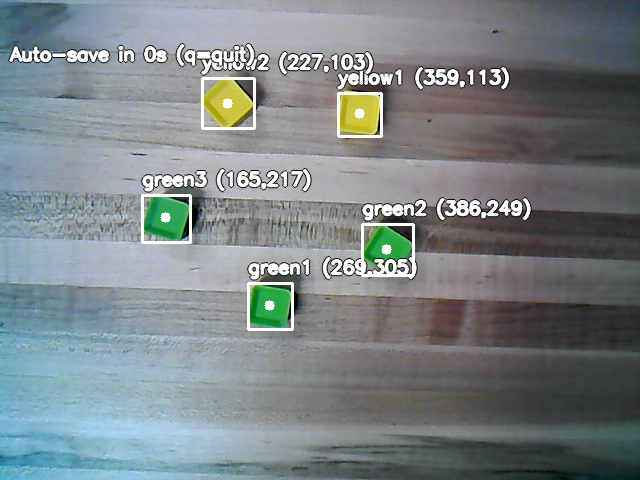
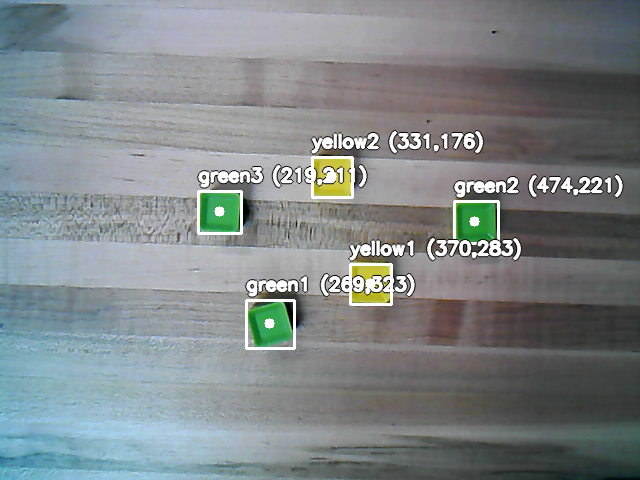
latest changes

diff --git a/Robot_Tools/Camera_Capture_Tools.py b/Robot_Tools/Camera_Capture_Tools.py
@@ -75,18 +75,132 @@ def detect_and_annotate_blocks(frame, area_threshold=500):
 # ---------------------------------------------------------
 # MAIN TOOL FUNCTION
 # ---------------------------------------------------------
+# def capture_scene_with_detection(
+#     cam_index=camera_index,
+#     width: int = 640,
+#     height: int = 480,
+#     save_dir: str = "captures",
+#     capture_interval_sec=capture_wait_time,
+# ):
+#     """
+#     Open the camera, show live view, detect colored blocks, annotate them,
+#     show a countdown from capture_interval_sec to 0, auto-save one annotated
+#     frame + JSON when countdown reaches 0, then keep showing the labeled feed
+#     until the user presses 'q' to quit.
+
+#     Returns a JSON-serializable dict with paths and detected blocks.
+#     """
+#     try:
+#         os.makedirs(save_dir, exist_ok=True)
+
+#         cap = cv2.VideoCapture(cam_index, cv2.CAP_ANY)
+#         if not cap.isOpened():
+#             return {
+#                 "error": f"Could not open camera index {cam_index}"
+#             }
+
+#         cap.set(cv2.CAP_PROP_FRAME_WIDTH, width)
+#         cap.set(cv2.CAP_PROP_FRAME_HEIGHT, height)
+#         cap.set(cv2.CAP_PROP_BUFFERSIZE, 1)
+
+#         window_name = "Camera (q=quit)"
+#         cv2.namedWindow(window_name, cv2.WINDOW_NORMAL)
+#         cv2.resizeWindow(window_name, width, height)
+
+#         # start time for countdown
+#         start_time = time.time()
+#         has_saved_once = False
+
+#         img_path = None
+#         json_path = None
+#         last_detected_blocks_data = []
+
+#         while True:
+#             ok, frame = cap.read()
+#             if not ok:
+#                 ok, frame = cap.read()
+#                 if not ok:
+#                     print("Frame grab failed.")
+#                     break
+
+#             detected_blocks = detect_and_annotate_blocks(frame)
+
+#             # --- COUNTDOWN / STATUS TEXT ---
+#             if has_saved_once:
+#                 # After capture: no timer, just info text
+#                 put_text(frame, "Capture done — labels only (q=quit)", (10, 60))
+#             else:
+#                 elapsed = time.time() - start_time
+#                 remaining = max(0, int(capture_interval_sec - elapsed))
+#                 put_text(
+#                     frame,
+#                     f"Auto-save in {remaining}s (q=quit)",
+#                     (10, 60),
+#                 )
+
+#             cv2.imshow(window_name, frame)
+#             key = cv2.waitKey(1) & 0xFF
+
+#             if key == ord('q'):
+#                 break
+
+#             # --- AUTO-SAVE ONCE WHEN TIMER EXPIRES ---
+#             if (not has_saved_once) and (time.time() - start_time >= capture_interval_sec):
+#                 has_saved_once = True
+
+#                 img_path = os.path.join(save_dir, "capture_scene.png")
+#                 json_path = os.path.join(save_dir, "capture_scene.json")
+
+#                 cv2.imwrite(img_path, frame)
+#                 print(f"Saved image: {img_path}")
+
+#                 data = [
+#                     {"label": label, "x": cx, "y": cy}
+#                     for label, (cx, cy) in detected_blocks
+#                 ]
+#                 last_detected_blocks_data = data
+
+#                 with open(json_path, "w") as f:
+#                     json.dump(data, f, indent=2)
+
+#                 print(f"Saved JSON: {json_path}")
+
+#         cap.release()
+#         cv2.destroyAllWindows()
+
+#         # Return info to the LLM/tool caller
+#         if img_path is None or json_path is None:
+#             return {
+#                 "message": "Camera closed before auto-save completed.",
+#                 "image_path": img_path,
+#                 "json_path": json_path,
+#                 "detected_blocks": last_detected_blocks_data,
+#             }
+
+#         return {
+#             "message": "Capture completed.",
+#             "image_path": img_path,
+#             "json_path": json_path,
+#             "detected_blocks": last_detected_blocks_data,
+#         }
+
+#     except Exception as e:
+#         # Tool-safe error return
+#         return {
+#             "error": f"Error in capture_scene_with_detection: {e}"
+#         }
+
 def capture_scene_with_detection(
     cam_index=camera_index,
     width: int = 640,
     height: int = 480,
     save_dir: str = "captures",
-    capture_interval_sec=capture_wait_time,
+    capture_interval_sec=capture_wait_time,  # kept for compatibility, but not used
 ):
     """
     Open the camera, show live view, detect colored blocks, annotate them,
-    show a countdown from capture_interval_sec to 0, auto-save one annotated
-    frame + JSON when countdown reaches 0, then keep showing the labeled feed
-    until the user presses 'q' to quit.
+    immediately save one annotated frame + JSON (no waiting), then keep
+    showing the labeled feed until the user presses 'q' to quit.
 
     Returns a JSON-serializable dict with paths and detected blocks.
     """
@@ -107,8 +221,6 @@ def capture_scene_with_detection(
         cv2.namedWindow(window_name, cv2.WINDOW_NORMAL)
         cv2.resizeWindow(window_name, width, height)
 
-        # start time for countdown
-        start_time = time.time()
         has_saved_once = False
 
         img_path = None
@@ -125,29 +237,9 @@ def capture_scene_with_detection(
 
             detected_blocks = detect_and_annotate_blocks(frame)
 
-            # --- COUNTDOWN / STATUS TEXT ---
-            if has_saved_once:
-                # After capture: no timer, just info text
-                put_text(frame, "Capture done — labels only (q=quit)", (10, 60))
-            else:
-                elapsed = time.time() - start_time
-                remaining = max(0, int(capture_interval_sec - elapsed))
-                put_text(
-                    frame,
-                    f"Auto-save in {remaining}s (q=quit)",
-                    (10, 60),
-                )
-
-            cv2.imshow(window_name, frame)
-            key = cv2.waitKey(1) & 0xFF
-
-            if key == ord('q'):
-                break
-
-            # --- AUTO-SAVE ONCE WHEN TIMER EXPIRES ---
-            if (not has_saved_once) and (time.time() - start_time >= capture_interval_sec):
-                has_saved_once = True
-
+            # --- STATUS TEXT & AUTO-SAVE (IMMEDIATE) ---
+            if not has_saved_once:
+                # Immediately save the first good annotated frame
                 img_path = os.path.join(save_dir, "capture_scene.png")
                 json_path = os.path.join(save_dir, "capture_scene.json")
 
@@ -165,13 +257,25 @@ def capture_scene_with_detection(
 
                 print(f"Saved JSON: {json_path}")
 
+                has_saved_once = True
+                put_text(frame, "Captured (q=quit)", (10, 60))
+            else:
+                # After capture: just show info text
+                put_text(frame, "Capture done — labels only (q=quit)", (10, 60))
+
+            cv2.imshow(window_name, frame)
+            key = cv2.waitKey(1) & 0xFF
+
+            if key == ord('q'):
+                break
+
         cap.release()
         cv2.destroyAllWindows()
 
         # Return info to the LLM/tool caller
         if img_path is None or json_path is None:
             return {
-                "message": "Camera closed before auto-save completed.",
+                "message": "Camera closed before capture completed.",
                 "image_path": img_path,
                 "json_path": json_path,
                 "detected_blocks": last_detected_blocks_data,
@@ -189,6 +293,7 @@ def capture_scene_with_detection(
         return {
             "error": f"Error in capture_scene_with_detection: {e}"
         }
+
 
 # ---------------------------------------------------------
 # SCHEMA FOR LLM TOOL CALLING

diff --git a/Robot_Tools/Pick_Place_Tool.py b/Robot_Tools/Pick_Place_Tool.py
@@ -1,4 +1,5 @@
 import os
+import time
 import json
 from google.genai import types
 from config import (
@@ -100,13 +101,14 @@ def pick_and_place_block(
         # -----------------------------------------
         # PICK SEQUENCE (always the same)
         # -----------------------------------------
-        steps.append({"step": "move_above_source", "u": src_u, "v": src_v})
-        steps.append(move_robot_point_above(src_u, src_v, z_above))
+        steps.append({"step": "move_above_source", "u": src_u+5, "v": src_v+5})
+        steps.append(move_robot_point_above(src_u+5, src_v+5, z_above))
 
         steps.append({"step": "descend_to_pick", "z": pickup_height})
-        steps.append(move_robot_point_block(src_u, src_v, pickup_height))
+        steps.append(move_robot_point_block(src_u+5, src_v+5, pickup_height))
 
         steps.append({"step": "suction_on"})
+        time.sleep(3)
         steps.append(suction_on())
 
         steps.append({"step": "lift_after_pick", "z": z_above})
@@ -205,6 +207,7 @@ def pick_and_place_block(
 
         # Common: release and lift
         steps.append({"step": "suction_off"})
+        time.sleep(1)
         steps.append(suction_off())
 
         steps.append({"step": "lift_after_place", "z": z_above})
